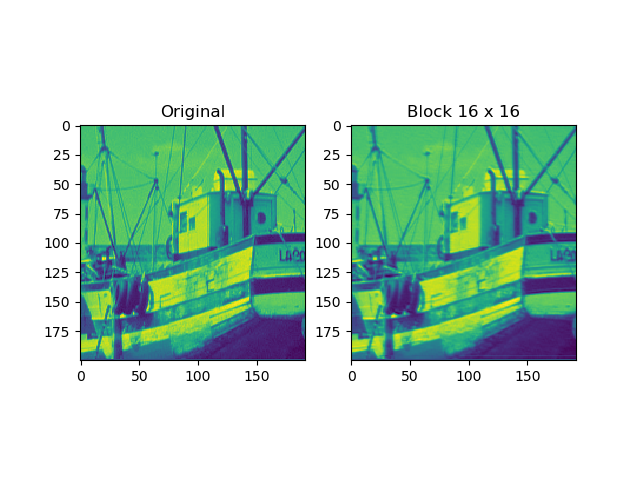
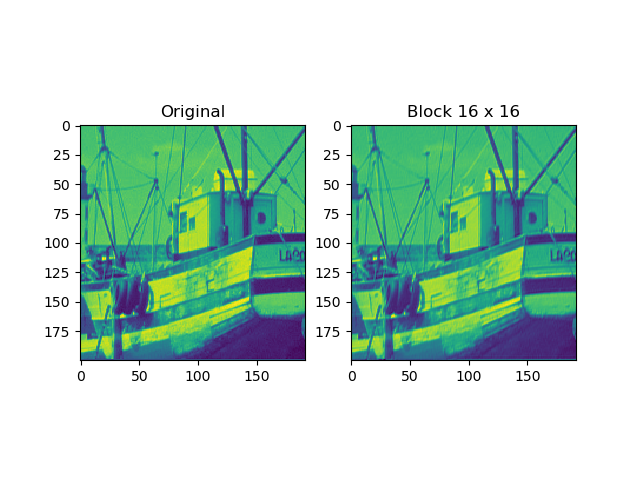
Removed Torch Tensors

diff --git a/util/util.py b/util/util.py
@@ -37,12 +37,8 @@ def convert_T_to_A(mask, T_Matrix):
     return A                                                                                                            # Return A Matrix
 
 def transform_Patch(dimension,mask, patch, T_Matrix):
-    # Prepare CUDA
-    if torch.cuda.is_available():
-        device = torch.device("cuda")
-
     # Turn Patch into C Matrix
-    C = torch.tensor(patch.flatten()).to(device)
+    C = patch.flatten()
     # Get the New Sparse matrix
     new_matrix = mask * C                                                                                               # Taking Dot Product
     ## The Next Part is minimizing this matrix
@@ -59,12 +55,9 @@ def transform_Patch(dimension,mask, patch, T_Matrix):
     A_values = count_non_sparse_values(A_Matrix.T[0])
     #print("A Non-Sparse Values:", A_values)
 
-    A_Matrix = A_Matrix.detach().cpu().numpy()
-    T_Matrix2 = T_Matrix.detach().cpu().numpy()
+    # Use Mosek
     alpha, res = l1norm(A_Matrix, B_Matrix)
-    new_C = torch.matmul(T_Matrix,torch.tensor(alpha).to(device))
-    #new_C = np.matmul(T_Matrix2, alpha)
-    new_C = new_C.detach().cpu().numpy()
+    new_C = np.matmul(T_Matrix,alpha)
     new_C = new_C.reshape((dimension))
     new_C = np.around(new_C)
     return new_C

diff --git a/Regression_compressive_sensing.py b/Regression_compressive_sensing.py
@@ -117,10 +117,6 @@ def test_first_Patch():
     print(C)
 
 def test_whole_image():
-    # Prepare CUDA
-    if torch.cuda.is_available():
-        device = torch.device("cuda")
-
     dimension = (16, 16)  # Dimension for Block
     boat = "fishing_boat.bmp"
     lena = "lena.bmp"
@@ -131,7 +127,7 @@ def test_whole_image():
     print(P,Q)
 
     # Create Transformation matrix
-    T_Matrix = torch.tensor(DCT_Matrix(dimension[0], dimension[1])).to(device)
+    T_Matrix = DCT_Matrix(dimension[0], dimension[1])
 
     # Split the Image Into Patches
     patches = image.extract_patches_2d(matrix, dimension)  # Turn into Patches the main Matrix
@@ -141,12 +137,11 @@ def test_whole_image():
     print(patches[0])
     # Random Initilize Mask
     ## Using Random Number Generator to Create Mask to Smaple
-    mask = torch.tensor(np.random.randint(2, size=patches[0].flatten().shape)).to(device)
+    mask = np.random.randint(2, size=patches[0].flatten().shape)
 
     # Transform the Patches
     new_image = []
     for patch in tqdm(patches):
-        patch = torch.tensor(patch).to(device)
         new_patch = transform_Patch(dimension,mask, patch, T_Matrix)
         new_image.append(new_patch)
     new_image = np.asarray(new_image)
